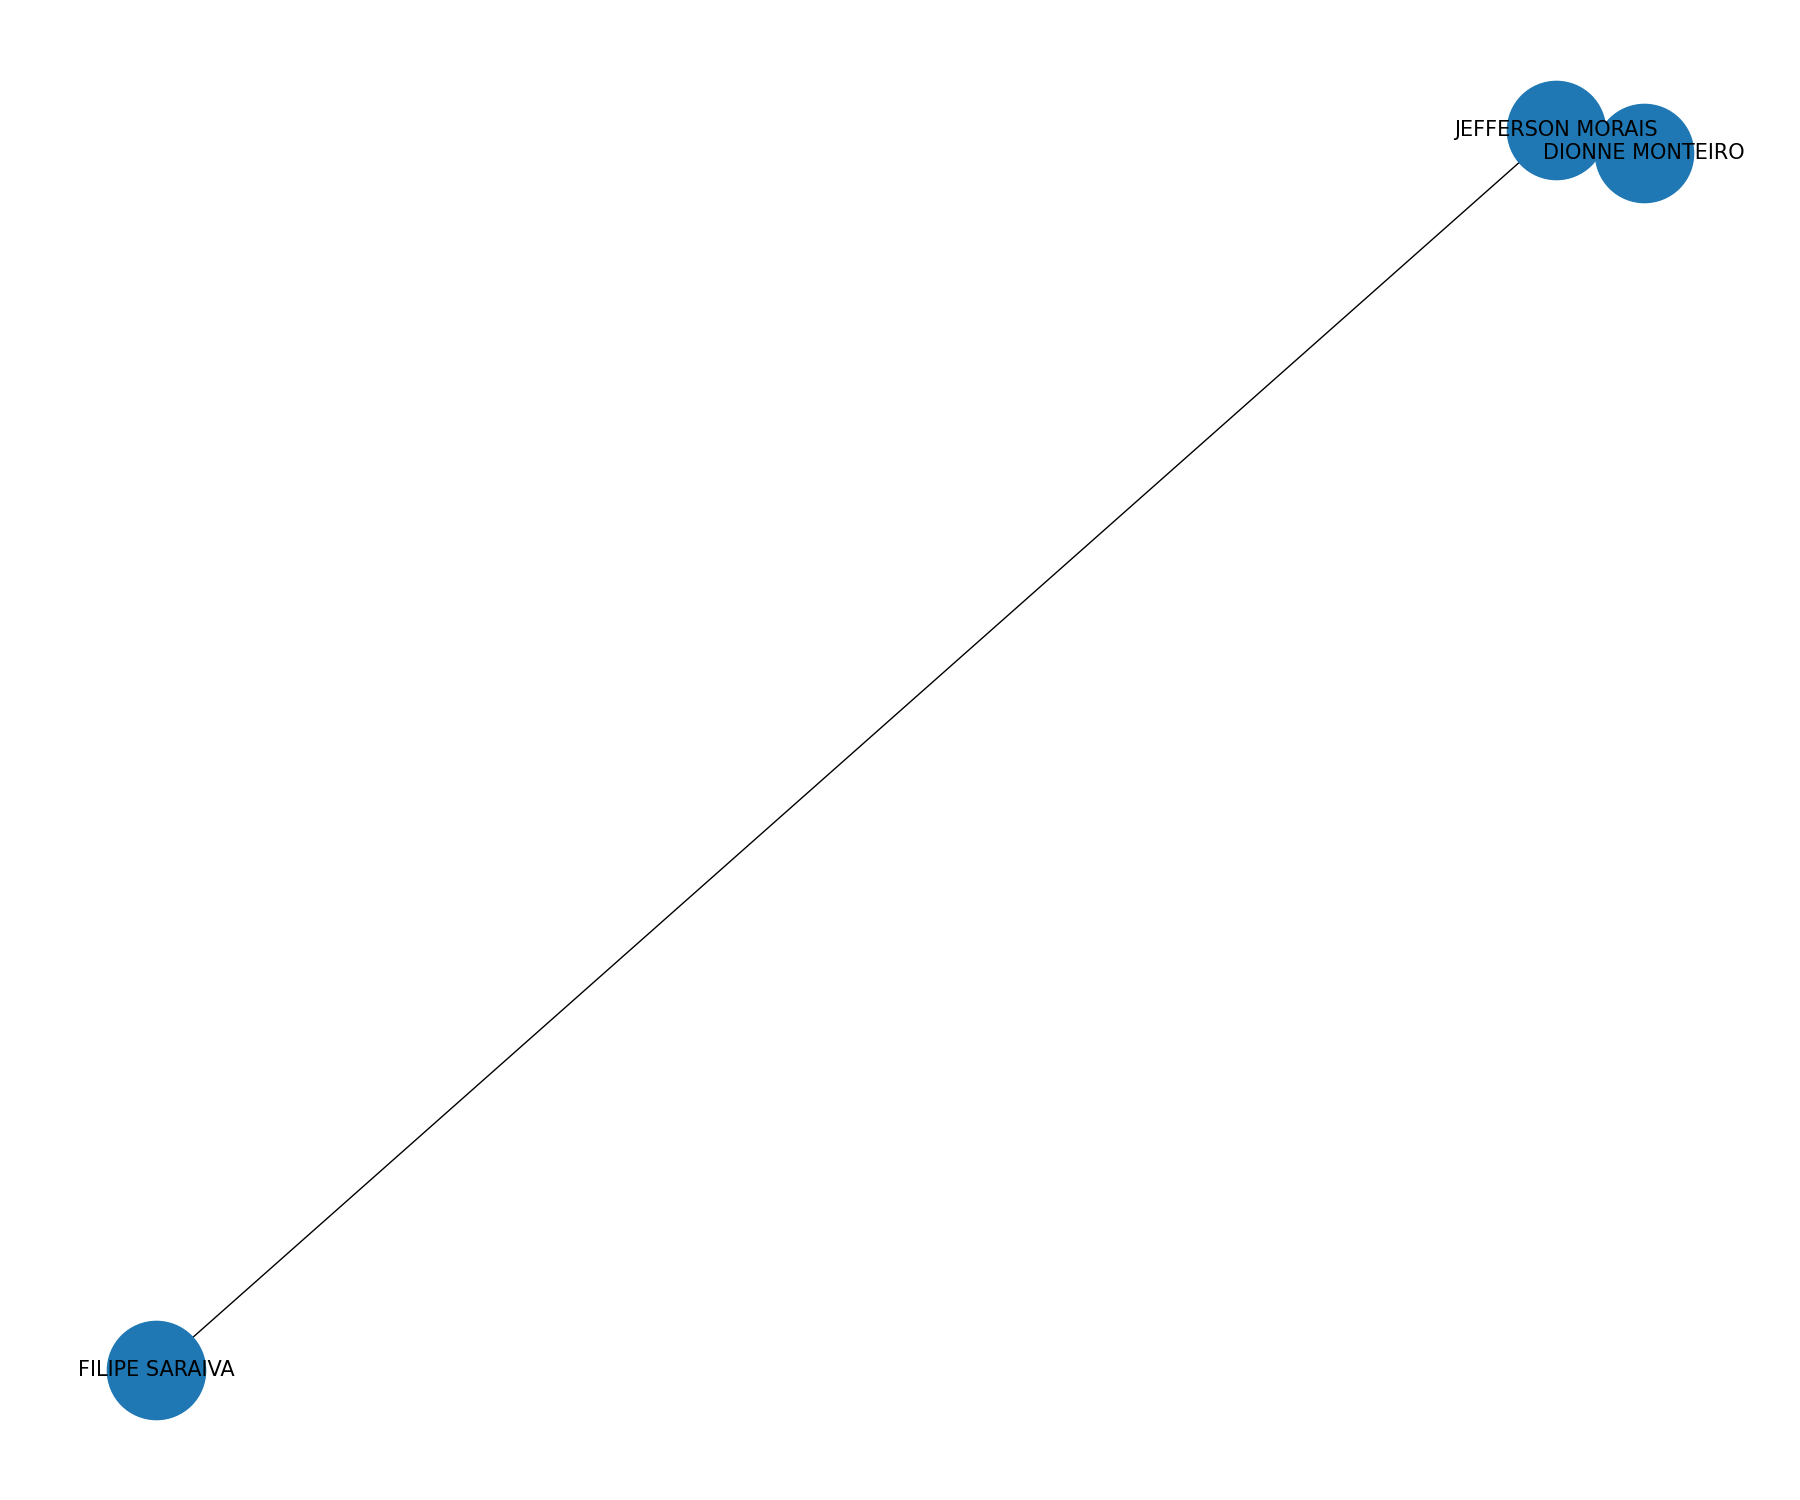
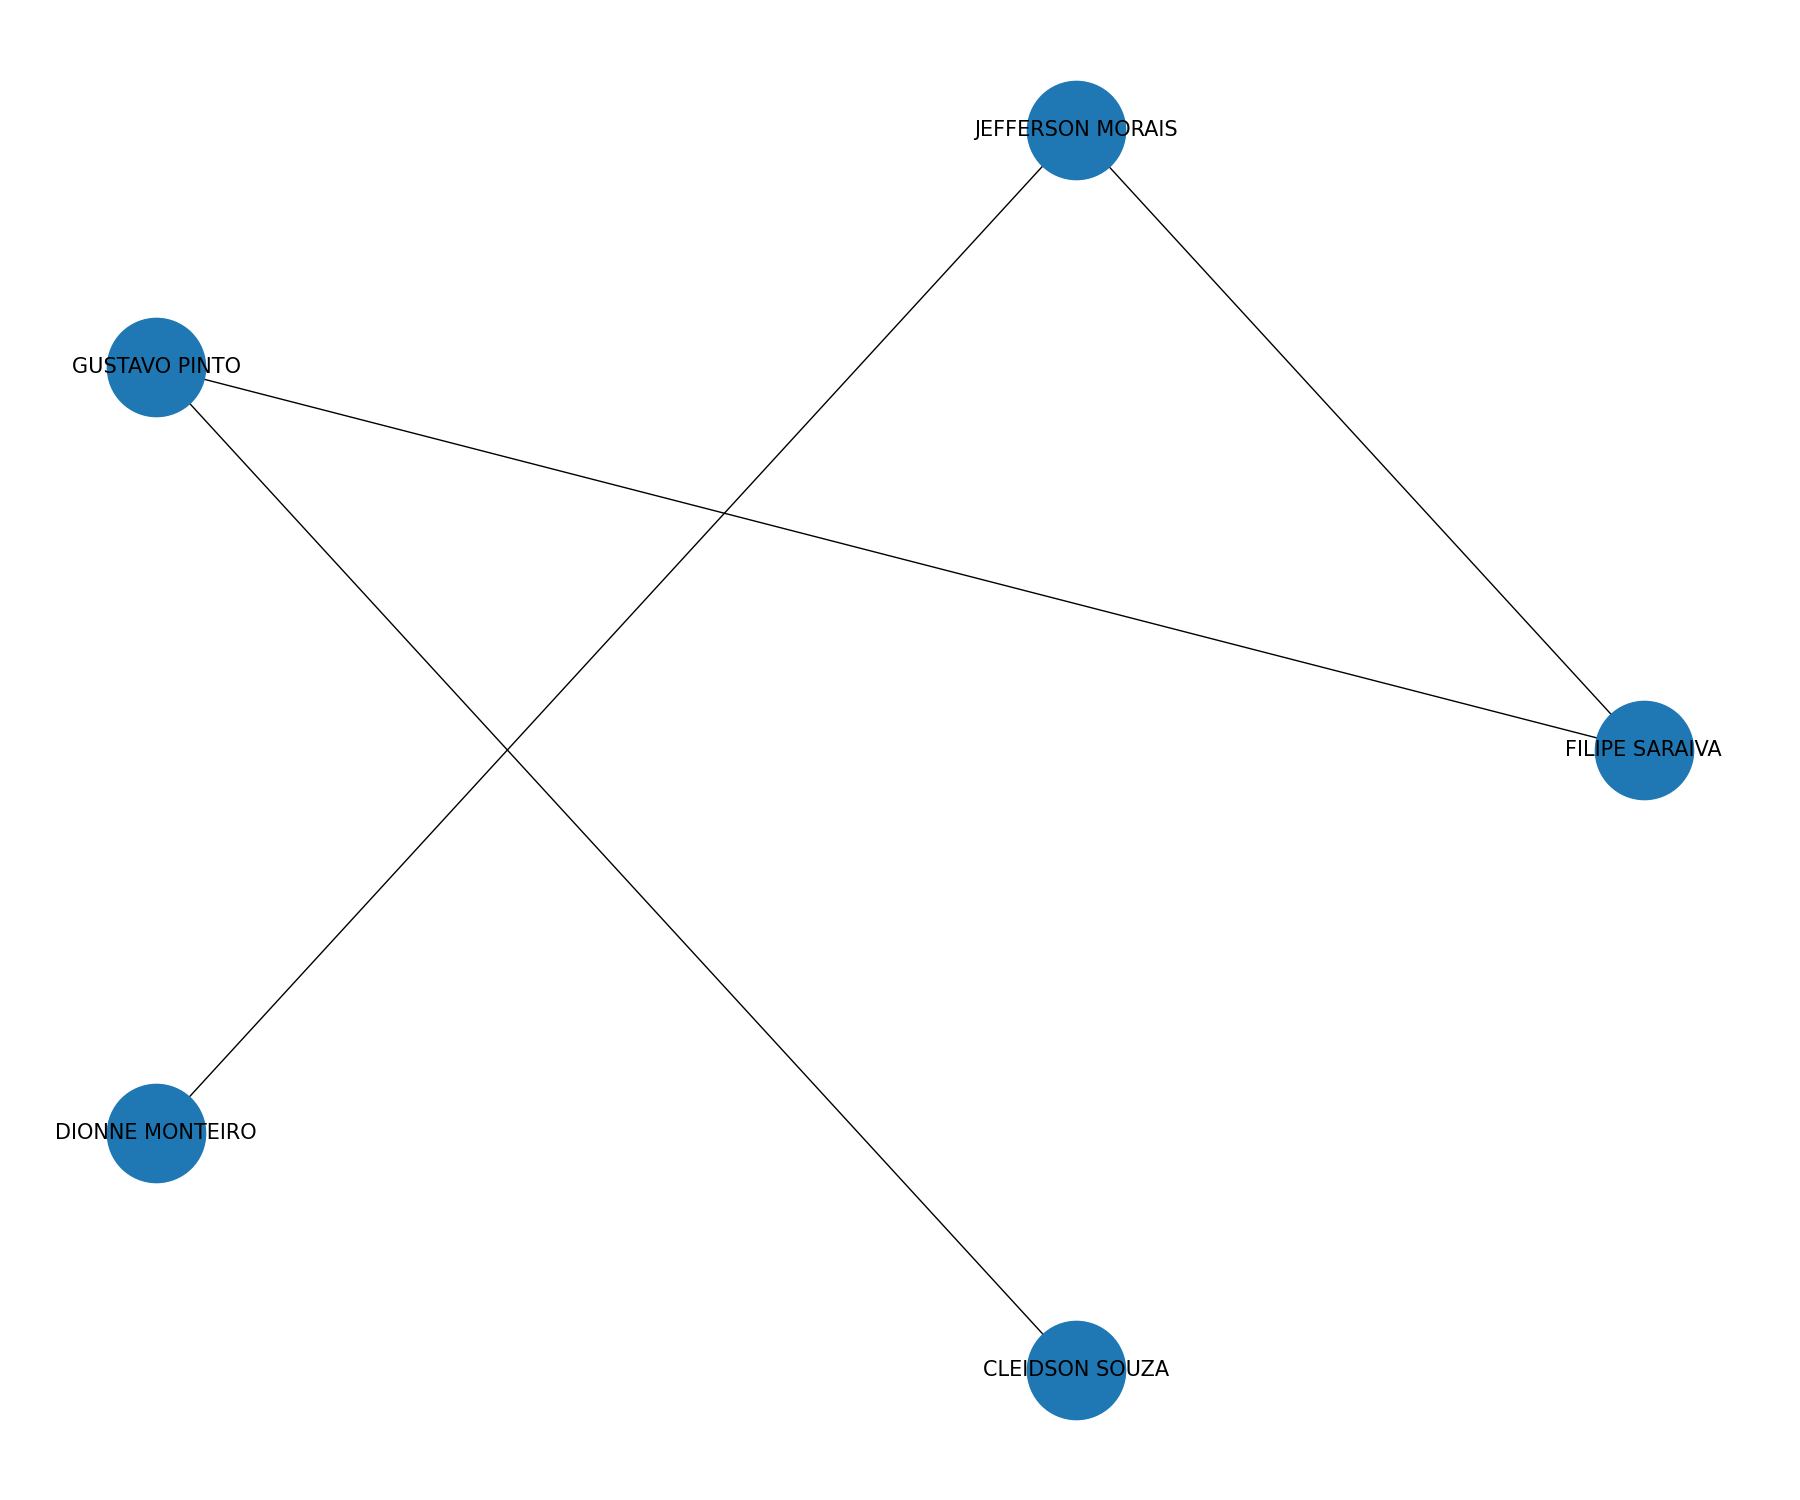
arrumando graficos 50/50

diff --git a/templates/resultados.html b/templates/resultados.html
@@ -17,124 +17,132 @@
 <!-- <script src='https://cdn.plot.ly/plotly-latest.min.js'></script> -->
 <!-- <script src="{{url_for('static',filename= 'js/plotly.min.js') }}"></script> -->
 
-<div class="card-header" id="card-header">
-    <i class="fas fa-chart-bar me-1"></i>
-    Média Por Docente
-</div>
-
-<div class="card-body">
-    <div id="media" class="media"> </div>
-</div>
-
-<div class="card-header" id="card-header">
-    <div>
+<div class="cards"> 
+    <div class="card-header" id="card-header">
         <i class="fas fa-chart-bar me-1"></i>
-        <span class="">Grafo de Colaboração entre Docentes</span>
-       
-        <span class="info-cards">
-            <i class="fas fa-circle-info" style="color: #000000;"></i>
-            Gráfico sobre a colaboração entre os professores em projetos
-        </span>
-       
+        Média Por Docente
+    </div>
+
+    <div class="card-body">
+        <div id="media" class="media"> </div>
     </div>
 </div>
 
+<div class="cards">
+    <div class="card-header" id="card-header">
+        <div>
+            <i class="fas fa-chart-bar me-1"></i>
+            <span class="">Grafo de Colaboração entre Docentes</span>
+        
+            <span class="info-cards">
+                <i class="fas fa-circle-info" style="color: #000000;"></i>
+                Gráfico sobre a colaboração entre os professores em projetos
+            </span>
+        
+        </div>
+    </div>
+    <div class="card-body" >
+        <div class="row">
+            <div class="colaboracao col-sm-10">
+                <div id="div-imagem">
+                    <img src="{{url_for('static', filename='images/matriz_colaboracao_circular.png')}}" id="colaboracao" class="colaboracao" alt="Matriz de Colaboração">
+                </div> 
+            </div>
+        
+            <div class="col-sm-2">
+                <label class="mb-2">Tipo de Grafo:</label>
+                <select class="form-select form-select-sm mb-3"  name="tipo_grafo" id="tipo_grafo" onchange="javascript:tipoGrafo(this);" > 
+                    <option value="circular">Circular</option>
+                    <option value="kamada_kawai">Kamada Kawai</option>
+                    <option value="planar">Planar</option>
+                    <option value="random">Random</option>
+                </select>
+            </div>
+    
+        </div>
+    </div>
+</div>
 
-<div class="card-body" >
+<div class="cards">
+
     <div class="row">
-        <div class="colaboracao col-sm-10">
-            <div id="div-imagem">
-                <img src="{{url_for('static', filename='images/matriz_colaboracao_circular.png')}}" id="colaboracao" class="colaboracao" alt="Matriz de Colaboração">
-            </div> 
+        <div class="card-header col-sm-8" id="card-header">
+            <i class="fas fa-table me-1"></i>
+            Quantidade Publicações por Ano
+        </div>
+        <div class="card-header col-sm-4 info-cards">
+            <i class="fas fa-chart-pie me-1"></i>
+            Periódico x Conferência
         </div>
     
-        <div class="col-sm-2">
-            <label class="mb-2">Tipo de Grafo:</label>
-            <select class="form-select form-select-sm mb-3"  name="tipo_grafo" id="tipo_grafo" onchange="javascript:tipoGrafo(this);" > 
-                <option value="circular">Circular</option>
-                <option value="kamada_kawai">Kamada Kawai</option>
-                <option value="planar">Planar</option>
-                <option value="random">Random</option>
-            </select>
+    </div>
+    
+    
+    <div class="card-body">
+    
+        <div class="row">
+            <div class="col-sm-8" id="chart">
+    
+            </div>
+    
+            <div class="col-sm-4" id="pizza">
+    
+            </div>
+    
         </div>
-
+    
     </div>
 </div>
 
-<div class="row">
-    <div class="card-header col-sm-8" id="card-header">
+
+
+
+<div class="cards">
+    
+    <div class="card-header">
         <i class="fas fa-table me-1"></i>
-        Quantidade Publicações por Ano
+        Relação das publicações
     </div>
-    <div class="card-header col-sm-4 info-cards">
-        <i class="fas fa-chart-pie me-1"></i>
-        Periódico x Conferência
+    <div class="card-body container">
+        <table id="resultados" class="table table-sm responsive" style="font-size: small;">
+            <thead class="table-dark">
+                <tr>
+                    <th>Docente</th>
+                    <th>Tipo:</th>
+                    <th>Ano:</th>
+                    <th>Título:</th>
+                    <th>Estratos:</th>
+                    <th>Notas:</th>
+                    <th>Editar</th>
+                    <th>DOI</th>
+                    
+                </tr>
+            </thead>
+    
+            <tbody>
+                {%for lista in listar%}
+                <tr>
+    
+                    <td>{{lista[1].split()[0]}} {{lista[1].split()[-1]}}</td>
+                    <td>{{lista[2]}}</td>
+                    <td>{{lista[3]}}</td>
+                    
+                    <td><a class="link-offset-2" data-bs-toggle="modal" onclick='visualizaDados({{lista[0]}})'
+                        data-bs-target="#exampleModal" data-bs-whatever="{{lista[4]}}">{{lista[4]}}</a></td>
+                    <td>{{lista[9]}}</td>
+                    <td>{{lista[10]}}</td>
+                    <td><a href="{{url_for('edita_publicacao',id=lista[0])}}"><i class="fas fa-pen me-1"></i></a></td>
+    
+                    {%if lista[5] != '-': %}
+                        <td><a href="http://dx.doi.org/{{lista[5]}}" target="_blank">DOI</a> </td>
+                    {%else%}
+                        <td> - </td>
+                    {%endif%}
+                </tr>
+                {%endfor%}
+            </tbody>
+        </table>
     </div>
-
-</div>
-
-
-<div class="card-body">
-
-    <div class="row">
-        <div class="col-sm-8" id="chart">
-
-        </div>
-
-        <div class="col-sm-4" id="pizza">
-
-        </div>
-
-    </div>
-
-</div>
-
-
-
-
-<div class="card-header">
-    <i class="fas fa-table me-1"></i>
-    Relação das publicações
-</div>
-<div class="card-body container">
-    <table id="resultados" class="table table-sm responsive" style="font-size: small;">
-        <thead class="table-dark">
-            <tr>
-                <th>Docente</th>
-                <th>Tipo:</th>
-                <th>Ano:</th>
-                <th>Título:</th>
-                <th>Estratos:</th>
-                <th>Notas:</th>
-                <th>Editar</th>
-                <th>DOI</th>
-                
-            </tr>
-        </thead>
-
-        <tbody>
-            {%for lista in listar%}
-            <tr>
-
-                <td>{{lista[1].split()[0]}} {{lista[1].split()[-1]}}</td>
-                <td>{{lista[2]}}</td>
-                <td>{{lista[3]}}</td>
-                
-                <td><a class="link-offset-2" data-bs-toggle="modal" onclick='visualizaDados({{lista[0]}})'
-                    data-bs-target="#exampleModal" data-bs-whatever="{{lista[4]}}">{{lista[4]}}</a></td>
-                <td>{{lista[9]}}</td>
-                <td>{{lista[10]}}</td>
-                <td><a href="{{url_for('edita_publicacao',id=lista[0])}}"><i class="fas fa-pen me-1"></i></a></td>
-
-                {%if lista[5] != '-': %}
-                    <td><a href="http://dx.doi.org/{{lista[5]}}" target="_blank">DOI</a> </td>
-                {%else%}
-                    <td> - </td>
-                {%endif%}
-            </tr>
-            {%endfor%}
-        </tbody>
-    </table>
 </div>
 
 <!-- modal para exibir dados faltantes dos títulos-->

diff --git a/templates/base.html b/templates/base.html
@@ -60,16 +60,16 @@
       rel="stylesheet"
     />
   </head>
-  <body class="sb-nav-fixed">
+  <body class=" align-items-center">
  
    
-    <nav class=" navbar-expand-lg navbar navbar-dark bg-dark">
+    <nav class=" navbar-expand-lg navbar navbar-dark bg-dark align-items-center">
       <div class="container">
         <a  style="font-size: 1.5rem" class="navbar-brand">AnyLattes</a>
         <!-- <button class="navbar-toggler" style="display: none;" type="button" data-toggle="collapse" data-target="#navbarNavAltMarkup" aria-controls="navbarNavAltMarkup" aria-expanded="false" aria-label="Toggle navigation">
         <span class="navbar-toggler-icon" style="display: none;"></span> 
         </button> -->
-        <div class="collapse navbar-collapse " id="navbarNavAltMarkup">  <!-- justify-content-end -->
+        <div class="collapse navbar-collapse " id="navbarNavAltMarkup"> 
           <div class="navbar-nav">
             <a style="margin: 0.5rem 1rem" class="nav-item nav-link pathname" href="{{url_for('index')}}">Importar dados</a>
             <a style="margin: 0.5rem 1rem" class="nav-item nav-link pathname" href="{{url_for('imports')}}">Importar Qualis</a>

diff --git a/static/css/estilos.css b/static/css/estilos.css
@@ -27,6 +27,14 @@ h2 {
   font-weight: 400;
 }
 
+.cards {
+  box-shadow: 15px 15px 30px #bebebe,
+  -15px -15px 30px rgb(254, 254, 254);
+  background-color: transparent;
+  margin: 3.5rem 0.1rem;
+
+}
+
 body {
   background-color: #EBEBEB;
   align-items: center;
